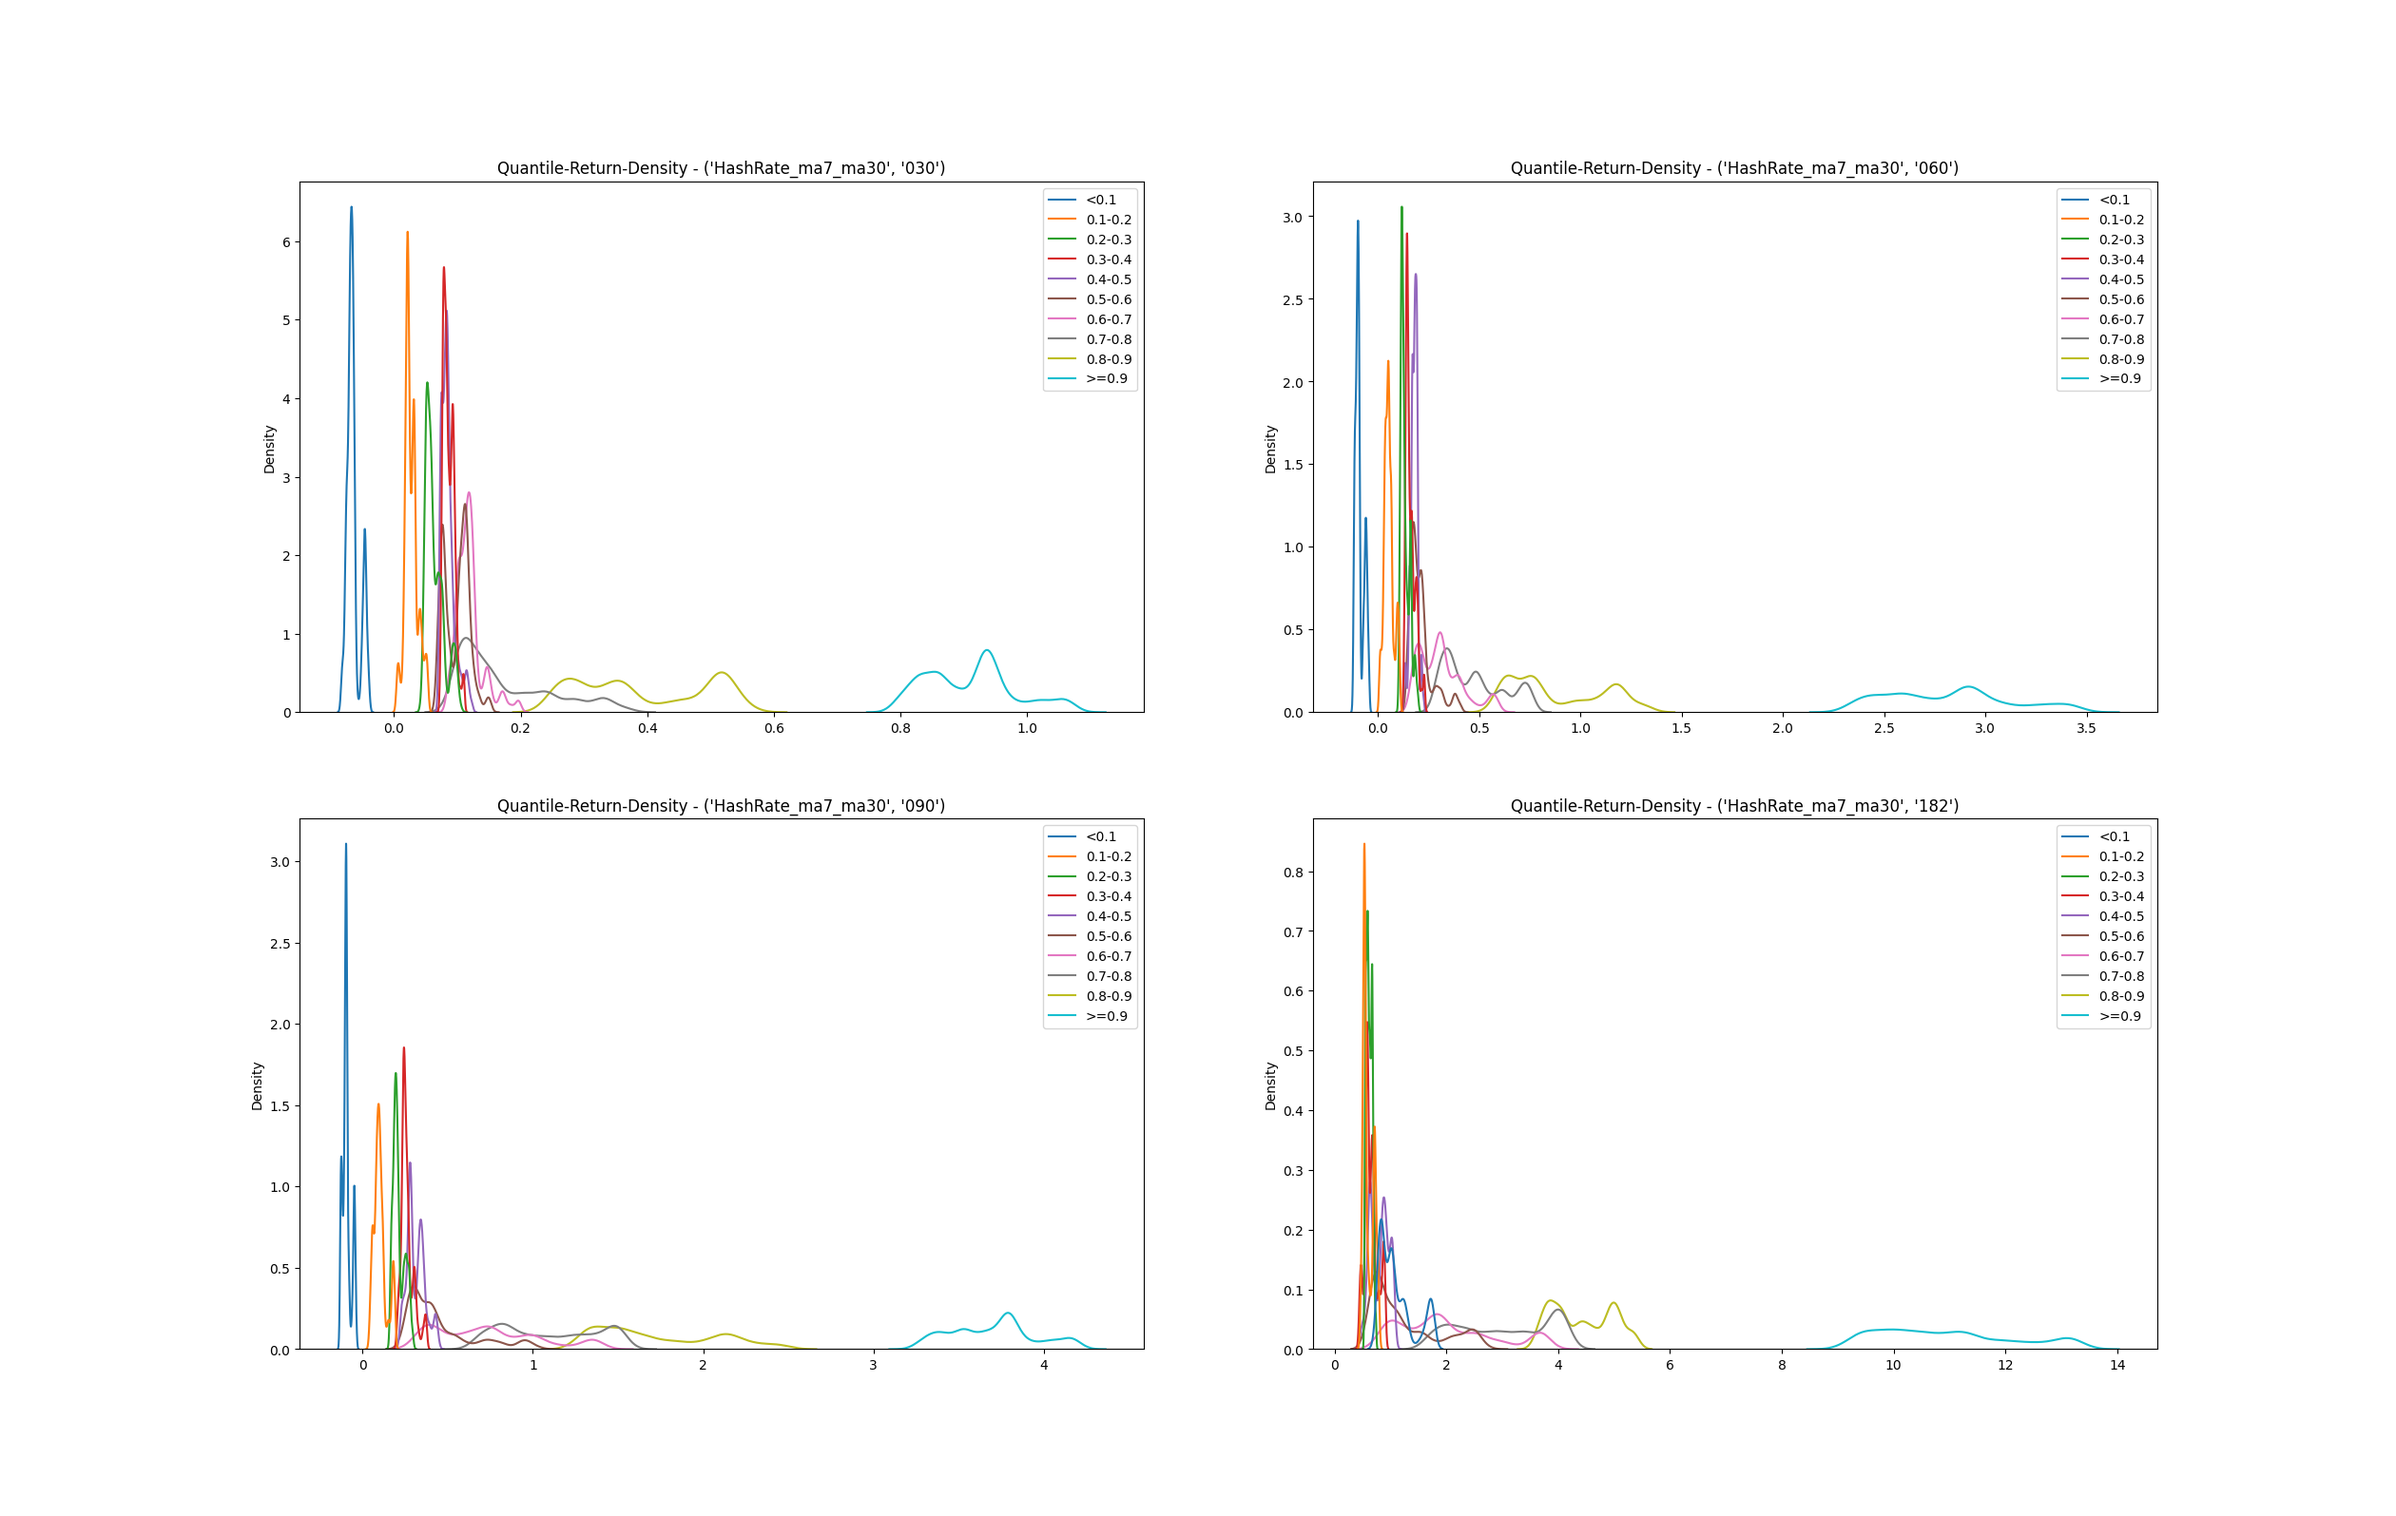
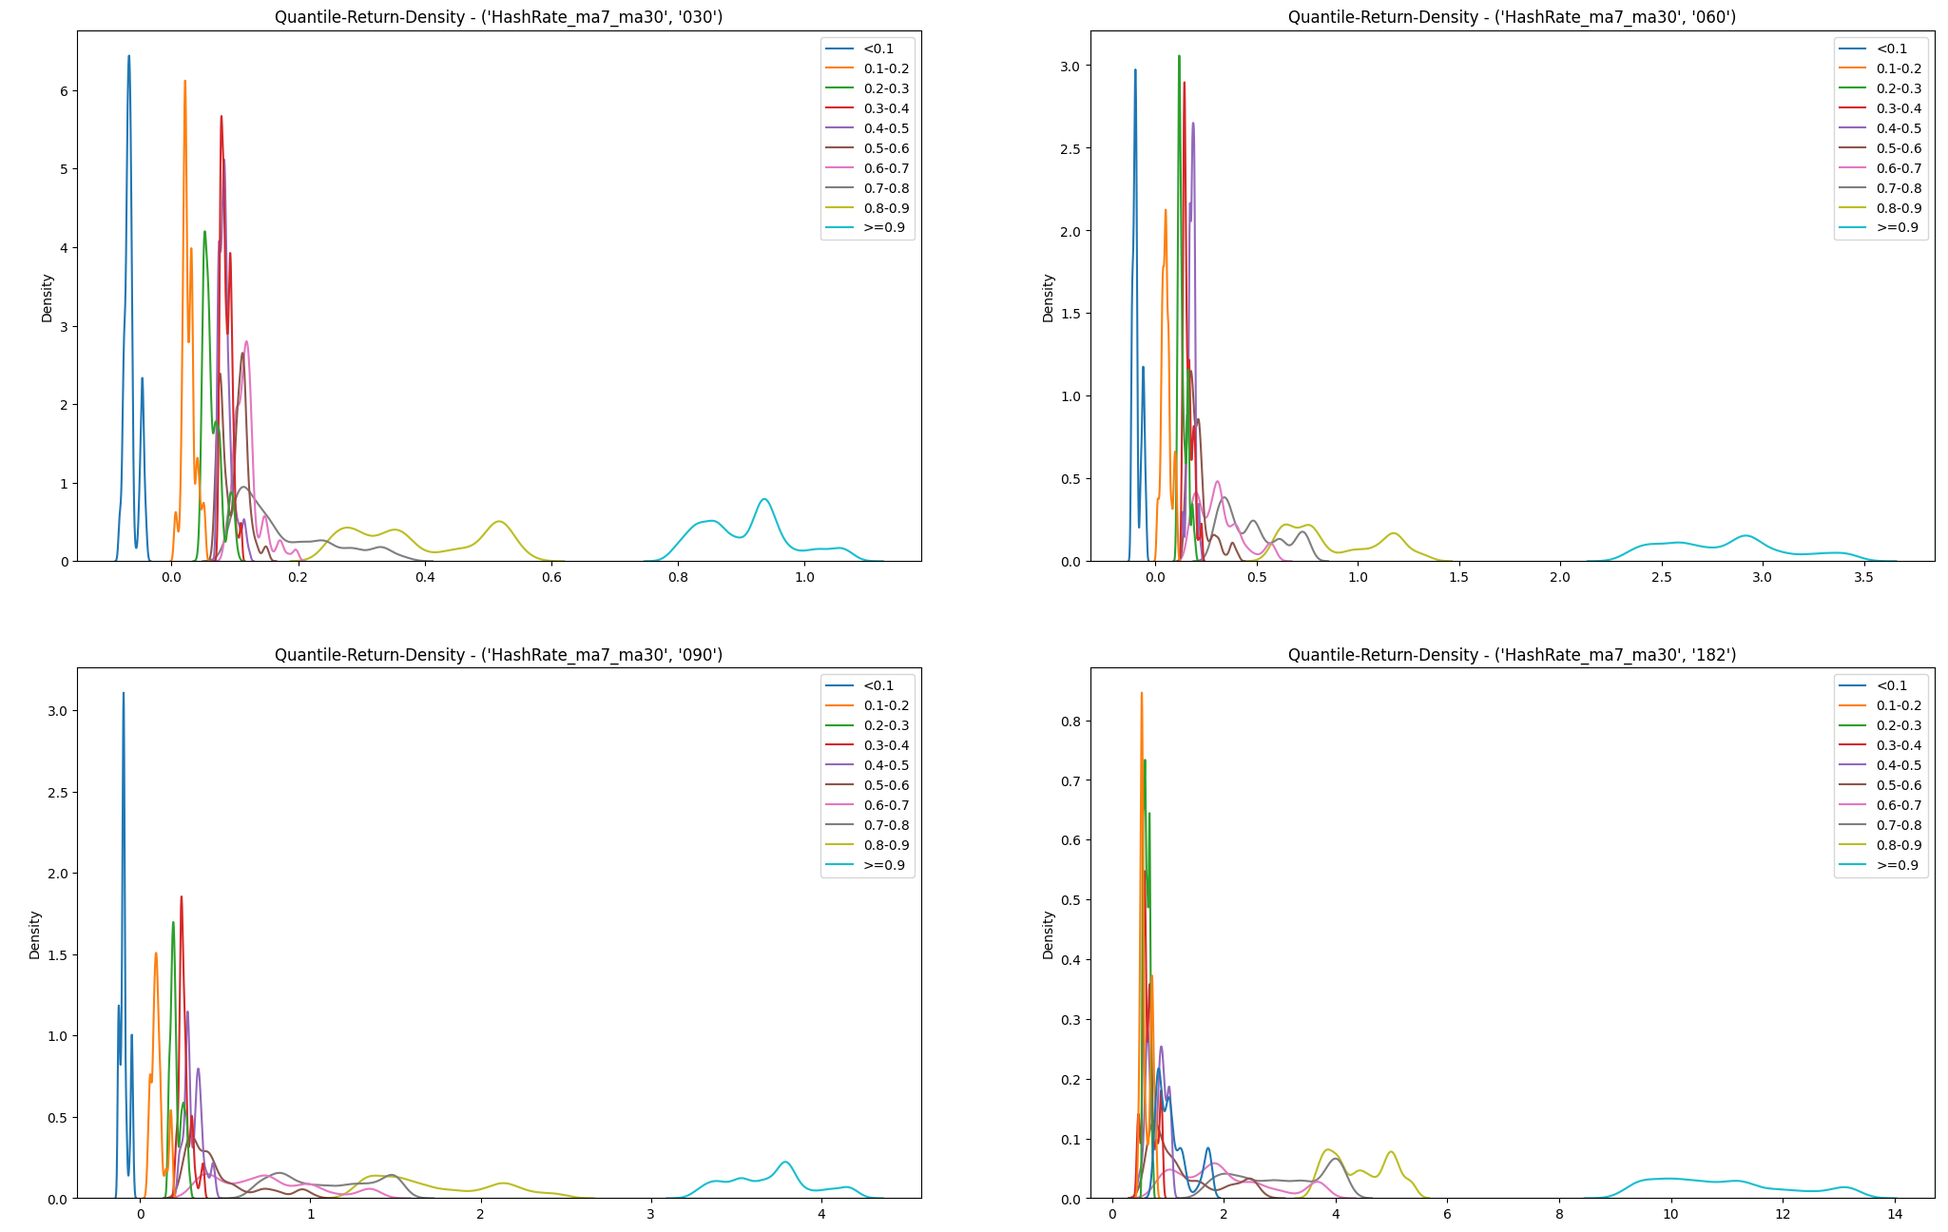
update readme

diff --git a/README.md b/README.md
@@ -3,7 +3,7 @@
 The goal of this project is to design a dynamic Dollar-Cost-Average strategy, which adopts long-only method, helping accumulate as much bitcoins as it could, and significantly outperforming passive uniform DCA strategy.
 While the ultimate purpose of analytics is to give predictive signals, helping not only in accumulating, but also in trading transactions, it is temping to develop a model which could ouput credible future price/return forcasts. 
 
-In this project, I have developed two models to predict future return. One is a simple linear regression method, the other uses Mamba achietecture as basic blocks of a 4-layers deep learning model. Then the algorithms use predicted results either as signal, or as booster of uniform weights.
+In this project, I have developed two models to predict future return. One is a simple linear regression method, the other uses Mamba achietecture as basic blocks of a 4-layers deep learning model. Then the algorithms use predicted results either as signal, or as booster of uniform weights. The final model combined metrics used in the two models. Specifically, the signals first boosted by Mamba prediction, then amplified by technical and on-chain metrics which are helpful to detect paradigm shift. The final model wins **73.84%** of the test windows over unfiform strategy.
 
 **NOTE** 
 
@@ -194,7 +194,7 @@ Extra packages installations are needed to run backtests (see requirements.txt).
     python -m model.template_mamba
     ```
 
-    <img src='model/output_mamba/best_model_120d.png' width='1000'>
+    <img src='model/output_mamba/best_model_120d.png' width='800'>
 
     | Metrics |  30d   |  60d  |  90d  |  120d |
     |---------|--------|-------|-------|-------|
@@ -216,7 +216,7 @@ Extra packages installations are needed to run backtests (see requirements.txt).
     python -c 'from model.mamba_backtest import custom_backtest; custom_backtest()'
     ```
 
-    <img src='model/output_mamba/Mamba_Vs_Unif_Battle_history_plot.png' width=1000>
+    <img src='model/output_mamba/Mamba_Vs_Unif_Battle_history_plot.png' width=800>
 
     It is observed that the win-loss-territory changes mostly just at the time when we periodically switched models. In almost all test window which starts one day in year 2020, the proposed strategy failed . The reason of this should be investigated carefully. Two possibilities worth a try: (1) Train models more frequently, say, per month. (2) Introduce other boosters or negators.
 
@@ -226,7 +226,7 @@ Extra packages installations are needed to run backtests (see requirements.txt).
     python -c 'from model.utils import hmm_state; hmm_state()'
     ```
 
-    <img src='model/output_mamba/Hidden_Markov_State_Recognision_plot.png' width=1000>
+    <img src='model/output_mamba/Hidden_Markov_State_Recognision_plot.png' width=800>
 
 
 2.  **Quantile-Layered returns of select features**
@@ -241,14 +241,14 @@ Extra packages installations are needed to run backtests (see requirements.txt).
                 plot_quantile_return_density(lag_res, "HashRate_ma7_ma30")'
     ```
 
-    <img src='model/output_mamba/HashRate_Quantile_Return_Density_plot.png' width=1000>
+    <img src='model/output_mamba/HashRate_Quantile_Return_Density_plot.png' width=800>
 
     These features could be used to construct credible booster/negator signals when they fell into extreme quantiles. And hopefully this direction will improve strategy performance further.
 
 3.  **Improvements**
 
-    Two metrics, standard deviation of 30 days return, along with Mayer-multiple, are helpful to detect paradigm shift. And two other metric, HashRate_ma7_ma30 and RSI, amplify signals when they fell below 10% or above 90% quantiles.
+    Two metrics, **standard deviation of 30 days return**, along with **Mayer-multiple**, are helpful to detect paradigm shift. And two other metric, **HashRate_ma7_ma30** and **RSI**, are used to amplify signals when the value of them fell in below 10% or above 90% quantiles. This simple maniplation raises win rate from **66.45%** to **73.84%**, and gets meaningful surplus over uniform strategy.
 
-    <img src='model/output_final/cumulative_performance.svg' width=600>
+    <img src='model/output_final/cumulative_performance.svg' width=800>
 
 ## END
